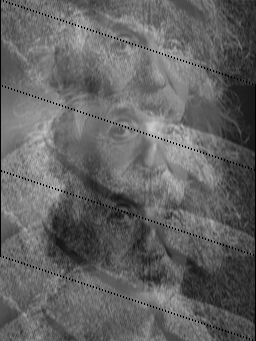
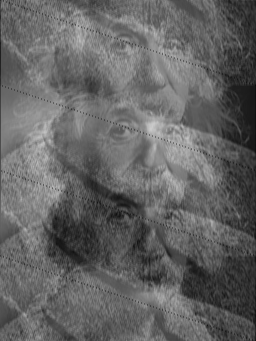
task4:2

diff --git a/code/main.cpp b/code/main.cpp
@@ -79,7 +79,7 @@ VectorXd task3(const MatrixXd& image_matrix) {
  smoothing kernel Hav2 as a matrix vector multiplication 
  between a matrix A1 having size mnXmn and the image vector.
 */
-MatrixXd task4_imageSmoothing(MatrixXd image_matrix, MatrixXd smoothing_matrix, int width, int height){
+/*MatrixXd task4_imageSmoothing(MatrixXd image_matrix, MatrixXd smoothing_matrix, int width, int height){
 
   cout << "\n--------TASK 4----------\n";
   int image_size = image_matrix.size();
@@ -92,36 +92,85 @@ MatrixXd task4_imageSmoothing(MatrixXd image_matrix, MatrixXd smoothing_matrix, 
 
   vector<Triplet<double>> nonzero_values;
 
-  for (int i = 0; i < height; ++i) {
+MatrixXd result(height, width);
+
+// Iterate over each pixel except for the boundary pixels
+for (int i = 1; i < height - 1; ++i) {
+    for (int j = 1; j < width - 1; ++j) {
+        // Apply the kernel to the 3x3 region centered on pixel (i, j)
+        double sum = 0.0;
+        for (int ki = -1; ki <= 1; ++ki) {
+            for (int kj = -1; kj <= 1; ++kj) {
+                sum += image_matrix(i + ki, j + kj) * smoothing_matrix(ki + 1, kj + 1);
+            }
+        }
+        result(i, j) = sum;
+    }
+}
+  //A1.setFromTriplets(nonzero_values.begin(), nonzero_values.end());
+  //cout << "Number of non-zero entries in A1: " << A1.nonZeros() << endl;
+
+  //VectorXd smoothed_image = A1 * flattened_image;
+  //MatrixXd result = Map<MatrixXd>(smoothed_image.data(), height, width);
+
+  cout << "smoothed image size: " << result.rows() << "x" << result.cols() << endl;
+  cout << "result matrix:" << result << endl;
+  return result;
+}
+*/
+
+MatrixXd task4_imageSmoothing(MatrixXd image_matrix, MatrixXd smoothing_matrix, int width, int height) {
+    cout << "\n--------TASK 4----------\n";
+    int image_size = image_matrix.size();
+
+    // Treat the image as a 1D vector
+    VectorXd flattened_image = Map<VectorXd>(image_matrix.transpose().data(), image_size);
+
+    // A1 with dimensions (width * height) x (width * height)
+    SparseMatrix<double> A1(image_size, image_size);
+    vector<Triplet<double>> nonzero_values;
+
+    // Populate the A1 matrix using the kernel
+    for (int i = 0; i < height; ++i) {
         for (int j = 0; j < width; ++j) {
-            int pixel_index = i * width + j;  // index for the current pixel
+            int pixel_index = i * width + j;  // Index for the current pixel
 
             // Apply the 3x3 kernel to each pixel and its neighbors
             for (int ki = -1; ki <= 1; ++ki) {
                 for (int kj = -1; kj <= 1; ++kj) {
                     int next_row = i + ki;
                     int next_col = j + kj;
-                    int next_index = next_row * width + next_col;
 
-                    // Add the kernel value to the corresponding entry in A1
-                    double kernel_value = smoothing_matrix(ki + 1, kj + 1);
-                    nonzero_values.push_back(Triplet<double>(pixel_index, next_index, kernel_value));
+                    // Check if the next_row and next_col are within the valid range
+                    if (next_row >= 0 && next_row < height && next_col >= 0 && next_col < width) {
+                        int next_index = next_row * width + next_col;
+                        double kernel_value = smoothing_matrix(ki + 1, kj + 1);
+                        // Add the valid triplet
+                        nonzero_values.push_back(Triplet<double>(pixel_index, next_index, kernel_value));
+                    }
                 }
             }
         }
-  }
+    }
 
-  A1.setFromTriplets(nonzero_values.begin(), nonzero_values.end());
-  cout << "Number of non-zero entries in A1: " << A1.nonZeros() << endl;
+    // Set the values in the sparse matrix
+    A1.setFromTriplets(nonzero_values.begin(), nonzero_values.end());
 
-  VectorXd smoothed_image = A1 * flattened_image;
-  MatrixXd result = Map<MatrixXd>(smoothed_image.data(), height, width);
-  
-  result = result.unaryExpr( { return min(255.0, max(0.0, val)); });
+    // Report the number of non-zero entries in A1
+    cout << "Number of non-zero entries in A1: " << A1.nonZeros() << endl;
 
-  cout << "smoothed image size: " << result.rows() << "x" << result.cols() << endl;
-  return result;
+    // Perform convolution (smoothing)
+    VectorXd smoothed_image = A1 * flattened_image;
+
+    // Reshape the result back into a 2D matrix
+    MatrixXd result = Map<MatrixXd>(smoothed_image.data(), height, width);
+
+    cout << "smoothed image size: " << result.rows() << "x" << result.cols() << endl;
+    cout << "result matrix:\n" << result << endl;
+
+    return result;
 }
+
 
 // Main function
 int main(int argc, char* argv[]) {
@@ -171,7 +220,7 @@ int main(int argc, char* argv[]) {
 
 
  // task4
-    Matrix3d Hav2 = getHav2();
+    MatrixXd Hav2 = getHav2();
     MatrixXd smoothed_image = task4_imageSmoothing(image_matrix, Hav2, width, height);
     exportimagenotnormalise(image_data, "smoothed_image", "png", smoothed_image, width, height);
 

diff --git a/code/filters.cpp b/code/filters.cpp
@@ -8,7 +8,7 @@ using namespace Eigen;
 using namespace std;
 
 // Define the function to return Hav2
-Matrix3d getHav2() {
+MatrixXd getHav2() {
     Matrix3d Hav2;
   Hav2 << 1, 1, 1,
           1, 1, 1,
@@ -17,7 +17,7 @@ Matrix3d getHav2() {
     return Hav2;
 }
 
-Matrix3d getHsh2(){
+MatrixXd getHsh2(){
     Matrix3d Hsh2;
     Hsh2 <<  0, -3,  0,
             -1,  9, -3,

diff --git a/code/headers/filters.h b/code/headers/filters.h
@@ -9,8 +9,8 @@ using namespace Eigen;
 using namespace std;
 
 // Function to return the Hav2 matrix
-Matrix3d getHav2();
+MatrixXd getHav2();
 
-Matrix3d getHsh2();
+MatrixXd getHsh2();
 
 #endif
